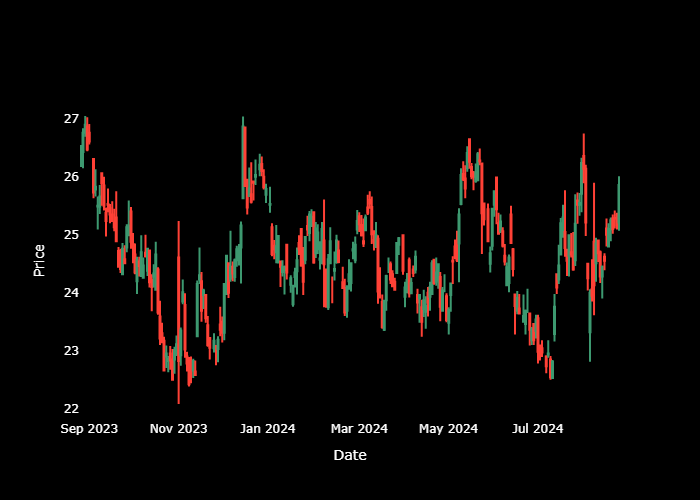
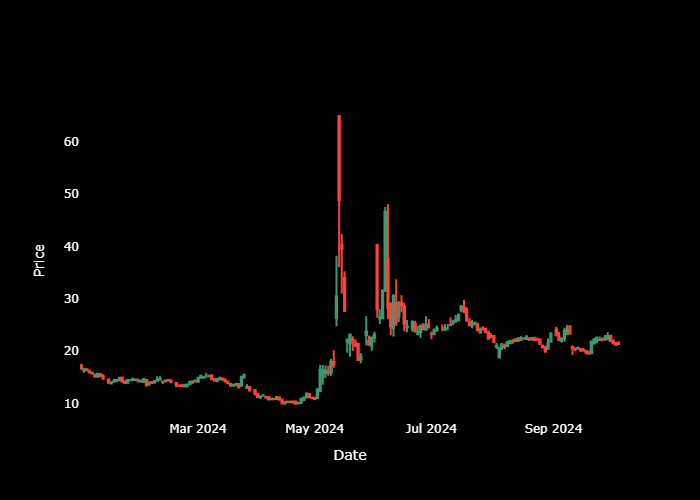
clean up

diff --git a/main.py b/main.py
@@ -179,7 +179,7 @@ def scan_exchange_symbols(location, exchange):
     create_thread(wait_for_thread, scan_thread).start()
 
 
-# Tab 1
+# region Tab 1 Charting
 
 # Input field for the stock symbol
 symbol_label = ctk.CTkLabel(tab_1, text="Enter Ticker:", font=("Roboto", 12))
@@ -200,13 +200,15 @@ check_button.pack(pady=20)
 # Settings button in the top-right corner
 settings_button = ctk.CTkButton(root, text="⚙", font=("Roboto", 10), width=50, command= lambda: open_settings(root, evaluator))
 settings_button.place(relx=1.0, rely=0.0, anchor="ne", x=-20, y=10)
+# endregion
 
-# Tab 2
+# region Tab 2 Data result
 
 fin_data_label = ctk.CTkLabel(tab_2, text="Enter ticker and results will appear here", anchor="w", justify="left",)
 fin_data_label.pack()
+# endregion
 
-# Tab 3
+# region Tab 3 Scanner
 
 # Create the first select box (Location)
 location_menu = ctk.CTkOptionMenu(tab_3, variable=selected_location, values=locations)
@@ -228,6 +230,9 @@ save_to_csv_button = ctk.CTkButton(tab_3, text='Save result as CSV', command=ope
 
 # Initialize with the default location
 update_exchanges()
+
+# endregion
+
 
 # Run the application
 root.mainloop()

diff --git a/Evaluator.py b/Evaluator.py
@@ -56,7 +56,8 @@ class Evaluator:
                     'Dept': ticker.total_debt,
                     'Market Cap': ticker.market_cap,
                     'Sector': ticker.sector,
-                    'Summary': ticker.long_business_summary,     
+                    'Summary': ticker.long_business_summary,
+
                 })
                 print(f'Buy: {ticker.base.ticker} Sector: {ticker.sector}')
                 self.buying_opportunities.append(data)
